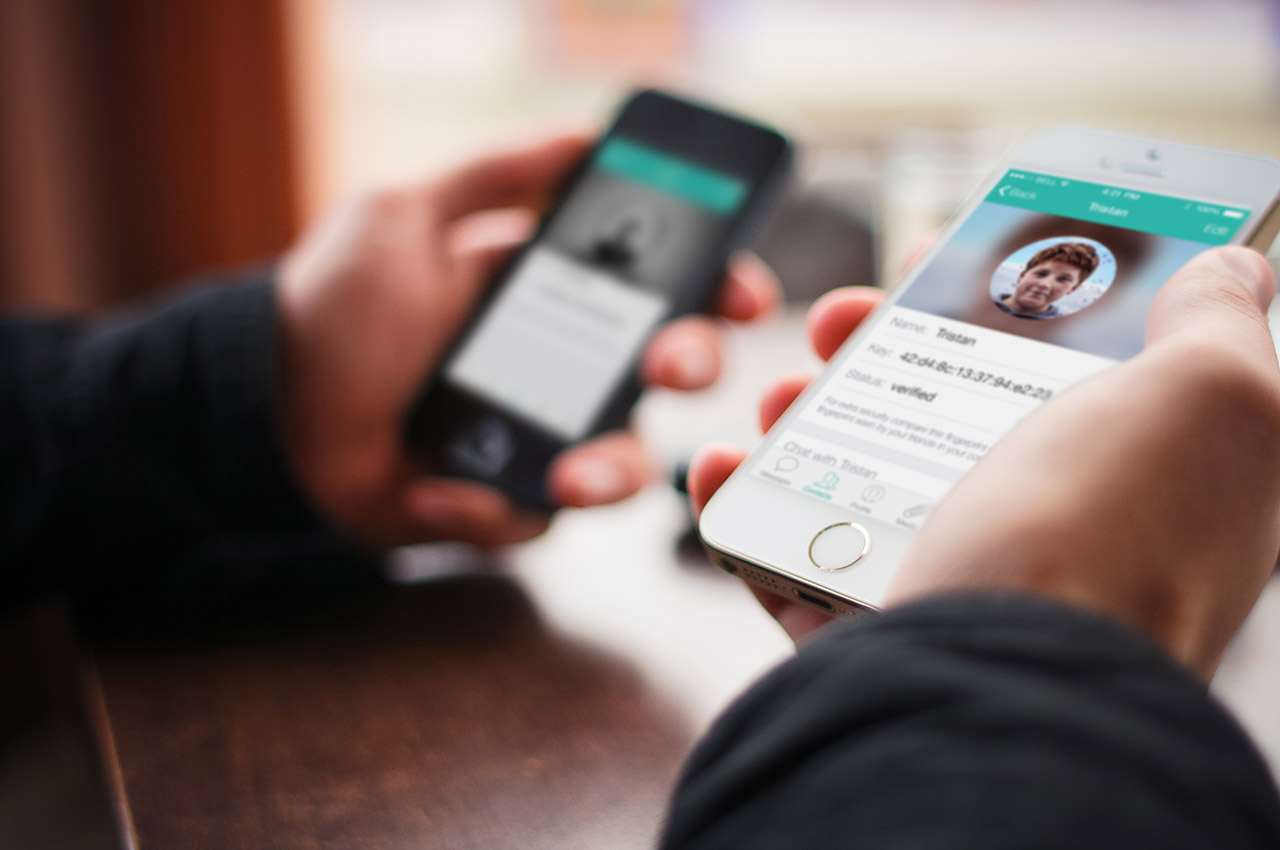
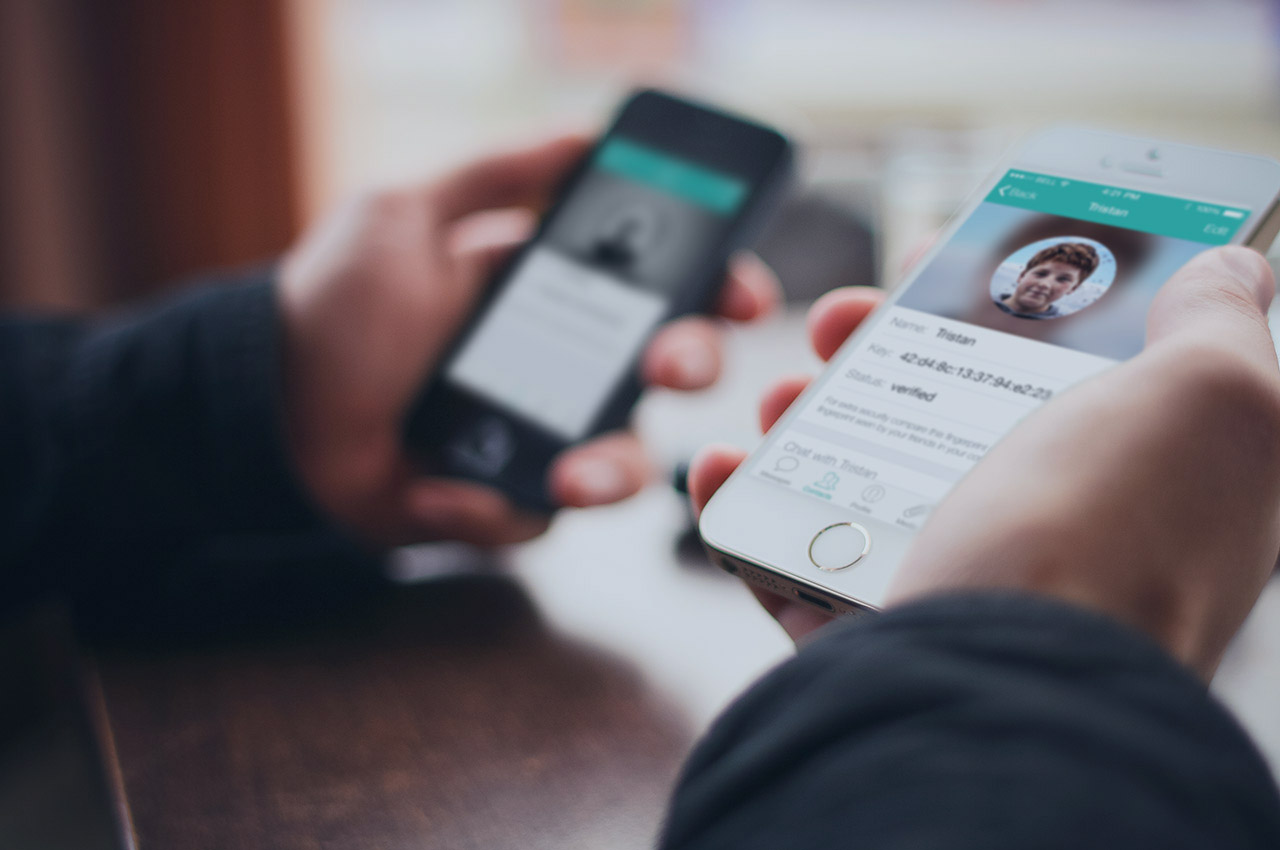
extend slider with some text and update images contrast

diff --git a/style.css b/style.css
@@ -399,7 +399,7 @@ body {
 	min-width: 320px;
 	height: 100%;
 	right: 32px;
-	top: 6em;
+	top: 10em;
 	background: url('images/xo-iphone.png') no-repeat scroll center bottom / contain transparent;
 	-webkit-animation: fromright 1.5s;
 	animation: fromright 1.5s;
@@ -488,15 +488,23 @@ body {
 	height: 0;
 	padding-bottom: 37.5%;
 }
-#section-slider .slide-title {
+#section-slider .slide-info {
 	text-align: center;
 	color: #fff;
 	position: absolute;
-	top: 37.5%;
+	top: 25%;
 	width: 62.5%;
-	left: 18.75%;
-	font-size: 3em;
+	left: 18.75%;	
+}
+#section-slider .slide-title {
+	color: #fff;
+	font-size: 2.4em;
 	text-shadow: 0 2px 16px rgba(0,0,0,0.1);
+}
+#section-slider .slide-text {
+	color: #fff;
+	font-size: 2em;
+	text-shadow: 0 2px 8px rgba(0,0,0,0.1);
 }
 #slide-1 {
 	background: url('images/slide-1.jpg') no-repeat fixed center center / cover #F4F4F4;

diff --git a/front-page.php b/front-page.php
@@ -68,21 +68,30 @@
 					<li>
 						<div id="slide-1" class="slide-section section">
 							<div class="inner">
-								<h3 class="slide-title">Chat, baby!</h3>
+								<div class="slide-info">
+									<h3 class="slide-title"><?php _e('Private Messaging','hoccer'); ?></h3>
+									<p class="slide-text"><?php _e('Keep all your data private between you and your contacts.','hoccer'); ?></p>
+								</div>
 							</div>
 						</div>
 					</li>
 					<li>
 						<div id="slide-2" class="slide-section section">
 							<div class="inner">
-								<h3 class="slide-title">Location based chats, digga!</h3>
+								<div class="slide-info">
+									<h3 class="slide-title"><?php _e('Location Based Data Sharing','hoccer'); ?></h3>
+									<p class="slide-text"><?php _e('Join public conversations or share data with temporarily contacts nearby.','hoccer'); ?></p>
+								</div>
 							</div>
 						</div>
 					</li>
 					<li>
 						<div id="slide-3" class="slide-section section">
 							<div class="inner">
-								<h3 class="slide-title">Check your keys manually!</h3>
+								<div class="slide-info">
+									<h3 class="slide-title"><?php _e('Compare your Fingerprints','hoccer'); ?></h3>
+									<p class="slide-text"><?php _e('Verify your public encryption keys manually on your friends device for extra security.','hoccer'); ?></p>
+								</div>
 							</div>
 						</div>
 					</li>
